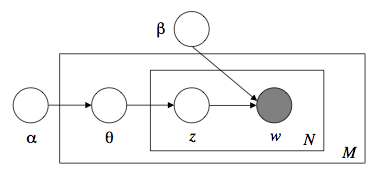
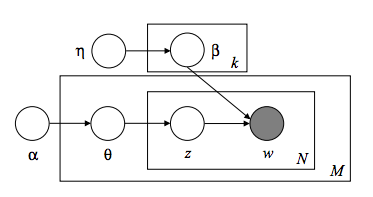
add

diff --git a/lda/slide.md b/lda/slide.md
@@ -39,9 +39,33 @@ $$Dir(\theta|\alpha)=\frac{\Gamma \left(\sum_i^k \alpha_i \right)}{\prod^k_i\Gam
 ---
 # LDA (2)
 ### 文章が従う分布
-$$p(w|\alpha,\beta)= \int Dir(\theta|\alpha) \left(\prod^N_n \sum_z p(z_n|\theta)p(w_n|z_n,\beta) \right)d\theta$$
-<center><img src=lda.png width=60%></center>
+今まで話したことを数式で表現すると
+$$p\left(w |\alpha,\eta \right)= \int \int Dir(\theta|\alpha) \left(\prod^N_n \sum_z p(z_n|\theta)p(w_n|z_n,\beta)p(\beta| \eta) \right)d\theta d\beta$$
+<center><img src=lda.png width=50%></center>
 ---
 
 # LDA
-$$ i\gamma^{\mu}\partial_{\mu}\psi -m\psi = 0$$
+### 適切なハイパーパラメータα,ηを求めたい
+尤度を最大化だ！
+$$p\left(w | \alpha,\eta \right)= \int \int Dir(\theta|\alpha) \left(\prod^N_n \sum_z p(z_n|\theta)p(w_n|z_n,\beta)p(\beta| \eta) \right)d\theta d\beta=\int \int p\left(w,\theta, \beta | \alpha,\eta \right)d\theta d\beta$$
+
+このままでは計算できないのでｐに近い分布qを求めることを考える
+$$p\left(w | \alpha,\eta \right)=\int \int q\left(\theta,\beta | \gamma, \phi \right)\frac{p\left(w,\theta, \beta | \alpha,\eta \right)}{q(\theta,\beta | \gamma, \phi)}d\theta d\beta$$
+
+まだqも扱いづらいので独立分布に近似する（平均場近似）
+$$q(\theta,\beta | \gamma, \phi) = q\left(\theta | \gamma \right)q\left(\beta |\phi \right) \equiv q(\theta)q(\beta)$$
+
+$$\int q(\theta) d\theta = 1, \int q(\beta) d\beta = 1$$
+
+---
+# LDA
+### 適切なハイパーパラメータα,ηを求めたい
+logとると都合がいい（桁落ち防止、単調増加でなめらか凸関数）のでlogとって
+$$\log p\left(w,\theta,\beta | \gamma, \phi \right) = \log \int \int q(\theta)q(\beta)\frac{p\left(w,\theta, \beta |\alpha,\eta \right)}{q(\theta)q(\beta)}d\theta d\beta$$
+$$\geq \int \int q(\theta)q(\beta) \log \frac{p\left(w,\theta, \beta | \alpha,\eta \right)}{q(\theta)q(\beta)}d\theta d\beta
+\equiv I\left(q(\theta),q(\beta)\right)$$
+
+Iを最大化すれば良い
+
+Jensenの不等式
+＠＠＠＠＠＠＠＠＠＠＠＠＠＠＠
